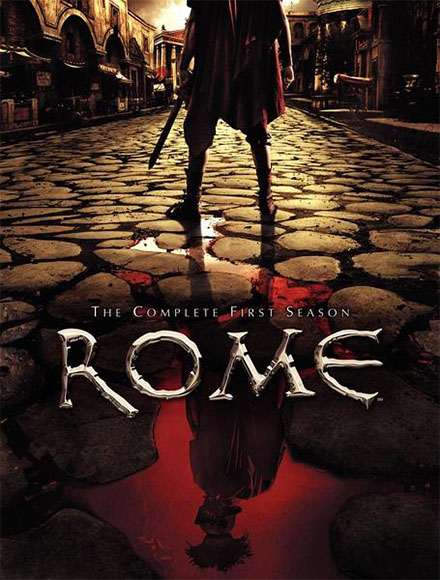
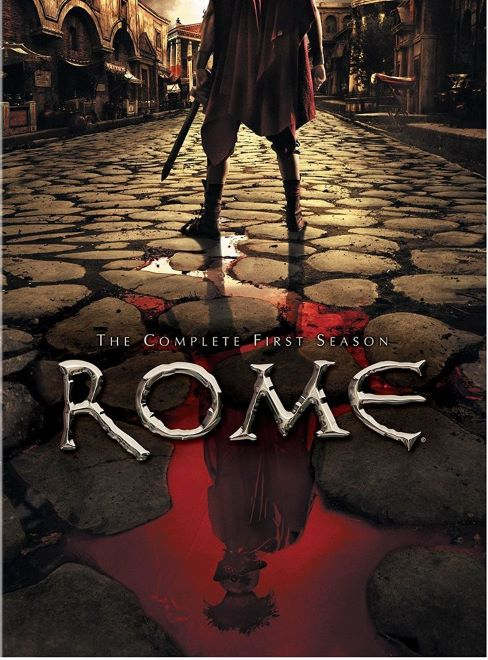
fix layout

diff --git a/docs/.vuepress/components/ArticleList.vue b/docs/.vuepress/components/ArticleList.vue
@@ -40,8 +40,7 @@ const scrollRight = () => {
             class="movie-poster-item"
             @click="$router.push(path)"
           >
-            <img v-if="info.cover" :src="'/' + info.cover" :alt="info.title" class="movie-poster" 
-              style="width: 440px; height: 660px; object-fit: cover;"/>
+            <img v-if="info.cover" :src="'/' + info.cover" :alt="info.title" class="movie-poster" />
             <div v-else class="no-poster">No Poster Available</div>
             <header class="title">{{ info.title }}</header>
           </div>
